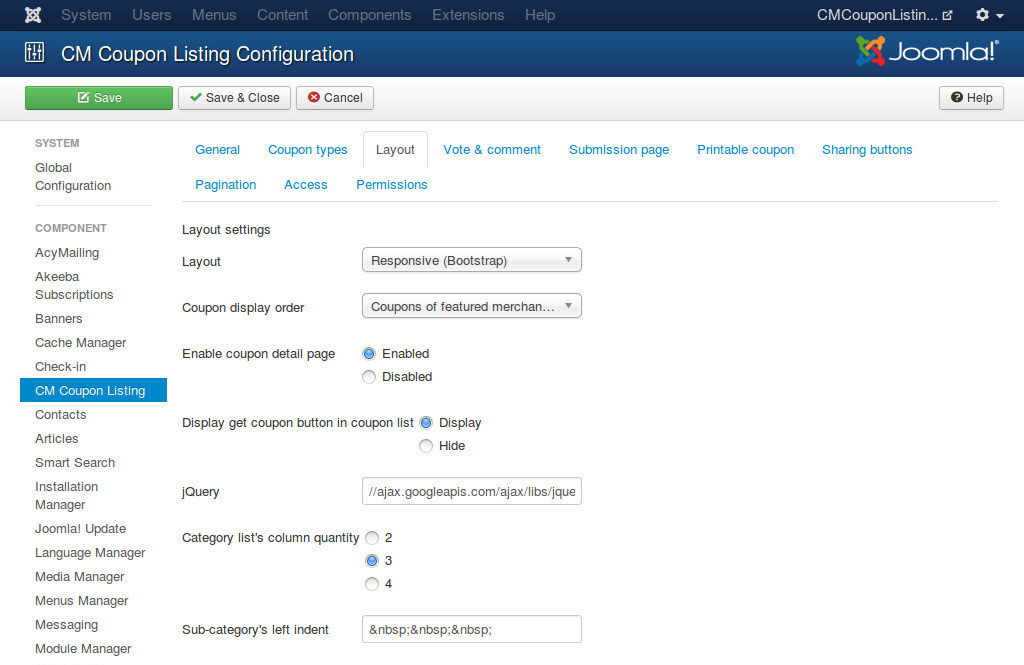
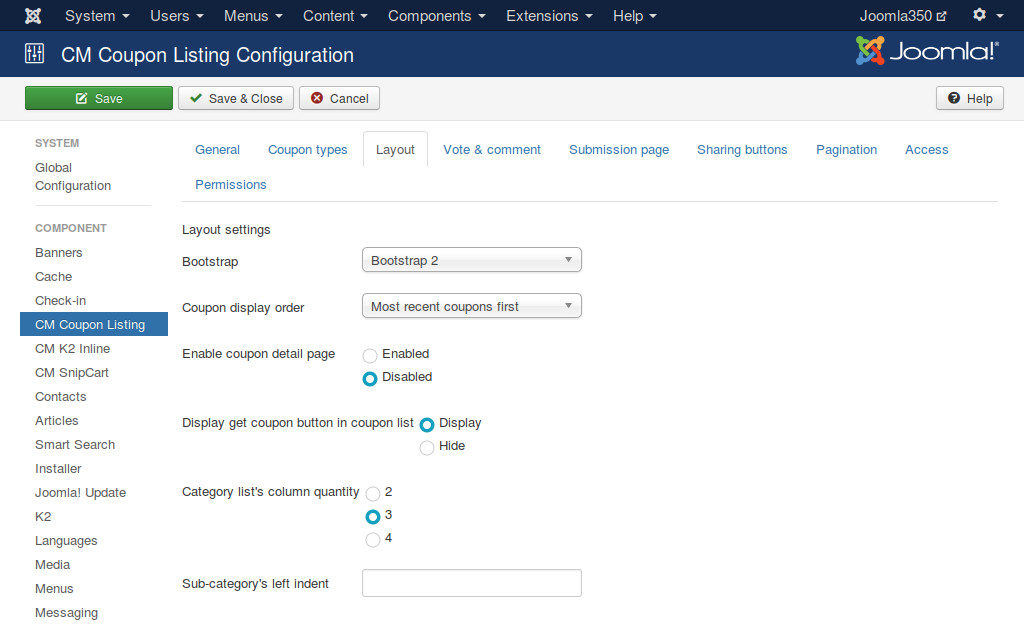
2.2.0

diff --git a/conf.py b/conf.py
@@ -44,16 +44,16 @@ master_doc = 'index'
 
 # General information about the project.
 project = u'CM Coupon Listing'
-copyright = u'2014-2015, CMExtension'
+copyright = u'2013-2016, CMExtension'
 
 # The version info for the project you're documenting, acts as replacement for
 # |version| and |release|, also used in various other places throughout the
 # built documents.
 #
 # The short X.Y version.
-version = '2.1.0'
+version = '2.2.0'
 # The full version, including alpha/beta/rc tags.
-release = '2.1.0'
+release = '2.2.0'
 
 # The language for content autogenerated by Sphinx. Refer to documentation
 # for a list of supported languages.

diff --git a/pages/configuration.rst b/pages/configuration.rst
@@ -34,11 +34,10 @@ Layout
 
 .. image:: ../images/configuration_layout.jpg
 
-* **Layout**: Use non-responsive layout or responsive layout. You can use responsive layout if you use Joomla! 3.x.x or a Joomla! template which includes Bootstrap.
+* **Layout**: Select the Bootstrap version that your site uses.
 * **Coupon display order**: The order of coupons in coupon list.
 * **Enable coupon detail page**: Detail page shows more info about coupon. Enabling coupon detail page also gives user ability to share coupon via social networks. Coupon's detail description is disabled if coupon detail page is disabled.
 * **Display get coupon button in coupon list**: If you disable coupon detail page, you should display get coupon button in coupon list so that users can get coupon. If you enable coupon detail page, you can hide the button in coupon list, users need to view detail page to get coupon.
-* **jQuery**: Load an internal jQuery file inside your Joomla! installation or an external jQuery file. For example, if your jquery.js is placed in media/js/ folder, you could enter "media/js/jquery.js", or if you could use Google's jQuery "//ajax.googleapis.com/ajax/libs/jquery/1.10.2/jquery.min.js".
 * **Category list's column quanity**: Category list page displays categories and merchants in those categories, the list is displayed as columns.
 * **Sub-category's left indent**: Children categories are displayed right below their parent category, you can use spaces or symbols to separate these categories from the left margins, let's us easily recognize that they are children category. This setting is used in both back-end and front-end. You can use HTML entity name, eg &nbsp; for a space or &#8594; for a right arrow.
 
@@ -67,18 +66,6 @@ Submission page
 * **Access submission page**: Only users who are in the selected access level can access submission page to submit new coupon.
 * **Return page**: The page where user is taken to after a successful submission.
 * **Captcha**: Use the captcha plugin in submission form. You may need to enter required information for your captcha plugin in the Plugin Manager.
-
-Printable coupon
-----------------
-
-.. image:: ../images/configuration_printable_coupon.jpg
-
-These options are only used for non-repsonsive layout.
-
-* **Coupon image's max width in download modal**: Allowed maximum width in pixel of coupon image which is displayed in download modal. If coupon image's width is greater than this value, coupon image's width is forced to display in this value. This value should be smaller than modal's width.
-* **Coupon image's max height in download modall**: Allowed maximum height in pixel of coupon image which is displayed in download modal. If coupon image's height is greater than this value, coupon image's height is forced to display in this value. This value should be smaller than modal's height.
-* **Download modal's widthl**: Width of coupon download modal in pixel.
-* **Download modal's heightl**: Height of coupon download modal in pixel.
 
 Sharing buttons
 ---------------

diff --git a/pages/overview.rst b/pages/overview.rst
@@ -12,8 +12,9 @@ CM Coupon Listing is released under `GNU Public License version 2 or later <http
 Technical Requirements
 ----------------------
 
-* Joomla! 2.5.x and Joomla! 3.x.x. Please check `Joomla!'s Technical Requirements <http://www.joomla.org/technical-requirements.html>`_ for more information.
-* Bootstrap 2 if using responsive layout. Bootstrap 3 is **NOT** supported.
+* Joomla! 3.x.x: The latest stable release of Joomla! is always recommended for stability and security. Please check `Joomla!'s Technical Requirements <http://www.joomla.org/technical-requirements.html>`_ for more information.
+* Joomla! 2.5.x: CM Coupon Listing could run on Joomla! 2.5.x. However we don't test all of CM Coupon Listing features on Joomla! 2.5.x because Joomla! 2.5 is not supported by Joomla! any more. Please update to Joomla! 3 if possible.
+* Bootstrap 2 or Bootstrap 3: Your site needs to have Bootstrap 2 or 3. If you don't use Bootstrap, you may need to override the output of CM Coupon Listing to add your own CSS classes.
 
 Additional extensions
 ---------------------
@@ -30,7 +31,7 @@ Main features
 
 **Front-end**:
 
-* 2 layouts: non-responsive and responsive (Bootstrap 2).
+* Support Bootstrap 2 and Bootstrap 3.
 * Menu item for listing all coupons, coupons in specific categories.
 * Menu item for listing all categories and merchants in them.
 * Menu item for listing all merchants.
@@ -50,6 +51,7 @@ Main features
 * Ask user for how much user saves (for example $50, 10€) and what user purchases if coupon works.
 * Ask user for the reason why coupon doesn't work.
 * User can post comment for coupon.
+* Print coupon or download coupon image (for printable coupon only).
 
 **Back-end**:
 

diff --git a/pages/install.rst b/pages/install.rst
@@ -6,7 +6,7 @@ Install CM Coupon Listing is very easy, just like installing any other Joomla! e
 
 We strongly recommend to backup your site before installing any new extension on your site.
 
-Log into your Joomla! back-end. On the top menu, you navigate to Extensions -> Extension Manager to access Extension Manager. Click "Browse" button and select the package of CM Coupon Listing that you downloaded from our website, click "Upload & Install" button to upload the package to your server to install.
+Log into your Joomla! back-end. On the top menu, you navigate to Extensions -> Manage to access Extension Manager. Click "Browse" button and select the package of CM Coupon Listing that you downloaded from our website, click "Upload & Install" button to upload the package to your server to install.
 
 If the installation is successful, you will receive the message "Installing package was successful."
 
